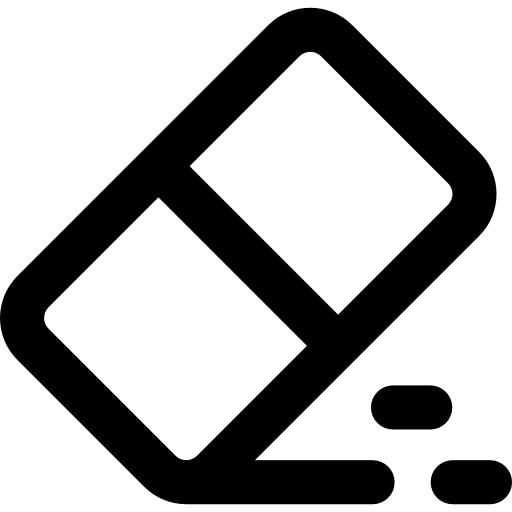
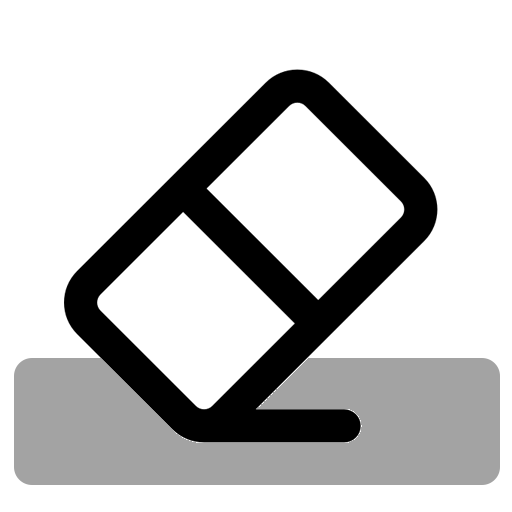
Fix eraser sizes

diff --git a/StantDrawing/BrushTool/BrushToolView.swift b/StantDrawing/BrushTool/BrushToolView.swift
@@ -103,7 +103,7 @@ public class BrushToolView: UIView {
                 
         let moveBtn  = Button(imageName: "move", imageColor: blackHexColor,   selector: #selector(self.moveCanvas))
         let brushBtn = Button(imageName: "pencil", imageColor: blackHexColor, selector: #selector(self.drawOnCanvas))
-        let eraseBtn = Button(imageName: "eraser", imageColor: blackHexColor, selector: #selector(self.erase))
+        let eraseBtn = Button(imageName: "eraserfull", imageColor: blackHexColor, selector: #selector(self.erase))
         let undoBtn  = Button(imageName: "undo", imageColor: blackHexColor,   selector: #selector(self.undo))
         let redoBtn  = Button(imageName: "redo", imageColor: blackHexColor,   selector: #selector(self.redo))
         let colorBtn = Button(imageName: "selectColor", imageColor: (delegate?.getHexColor())!, selector: #selector(self.selectColor))
